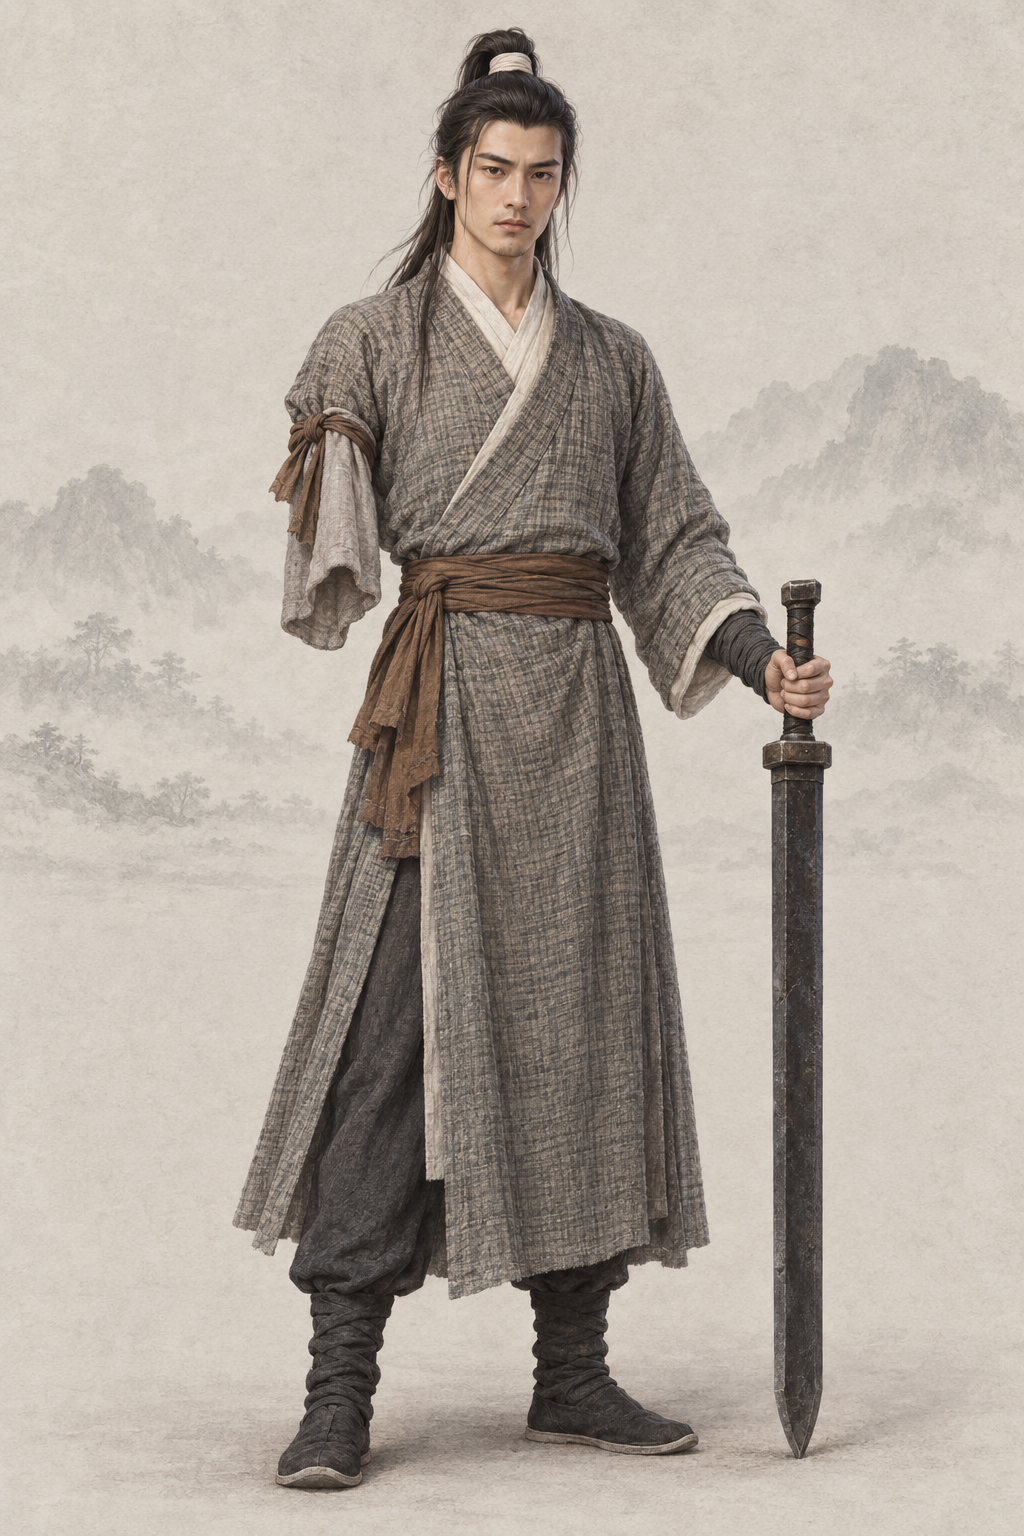
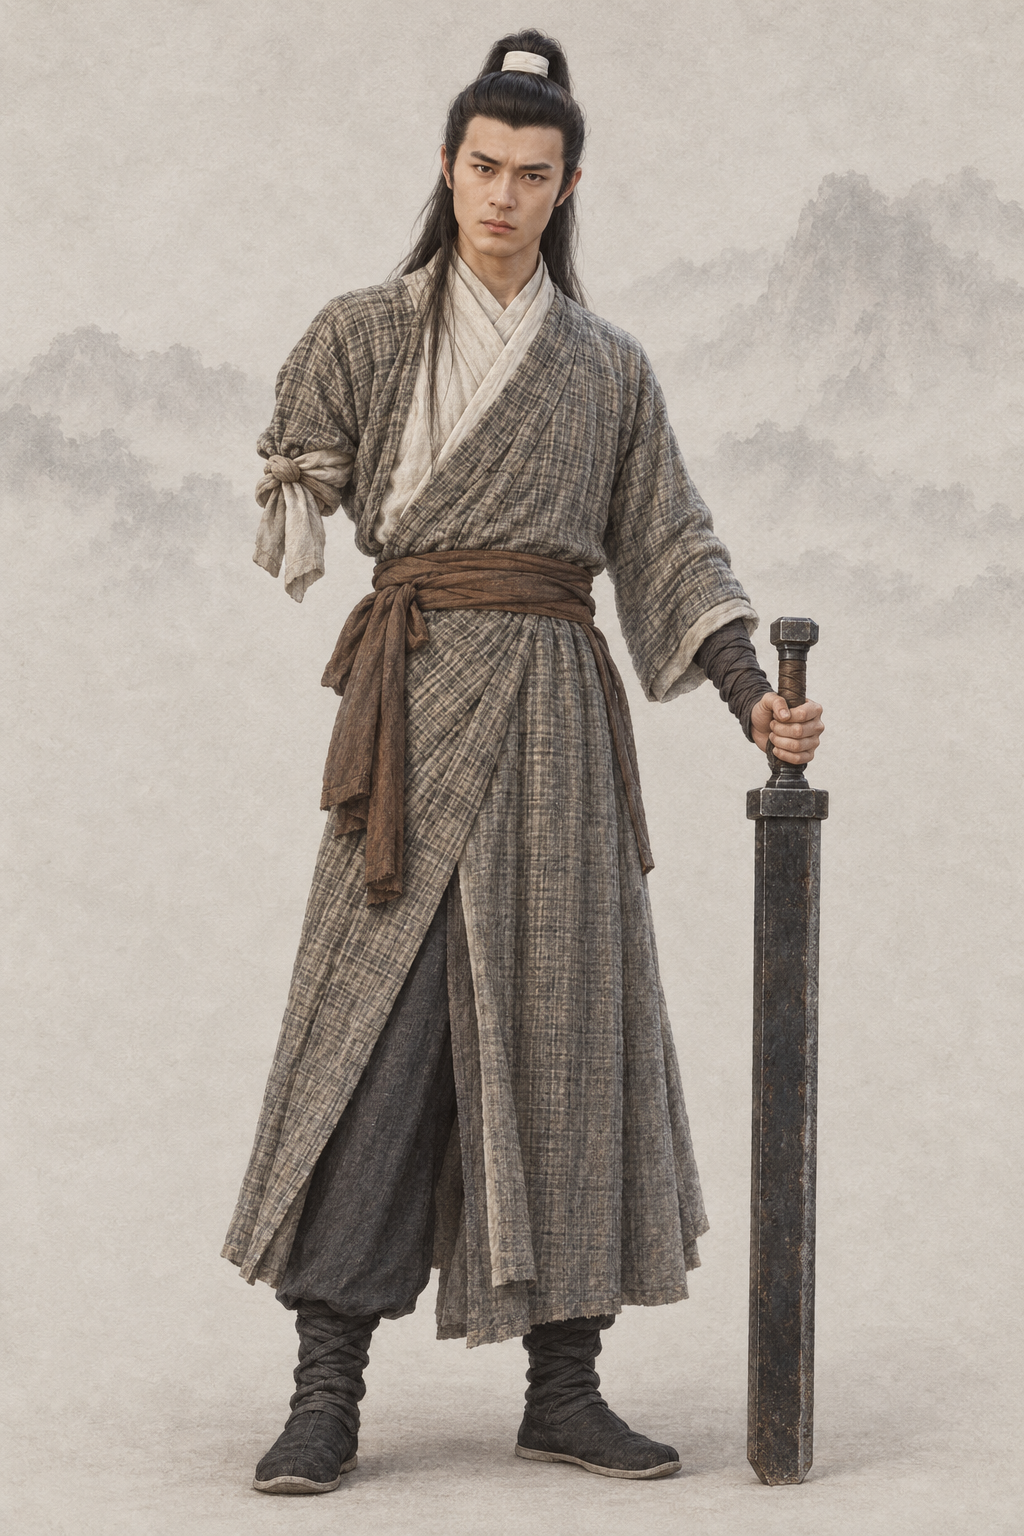
assets(character): 杨过 base 换作者选定的第 2 轮 A 版（AR-44 / AR-49）
作者 13:24「杨过再像古天乐版本一些」，第 2 轮在剧照之外加剧照脸部特写，脸向 1995 版靠拢，仍按项目画风重画；作者 13:47 选 A。独臂（右臂）、左手玄铁剑、格纹布袍保留。第 1 轮图备份在 codex_w17/replaced/，提示词写回 npc_yangguo.md，第 1 轮段留作历史。

diff --git a/assets/default/prompts/characters/ch03-shendiao/npc_yangguo.md b/assets/default/prompts/characters/ch03-shendiao/npc_yangguo.md
@@ -14,6 +14,9 @@ references:
 - path: .agents/coord/imagegen-reference/identity-20261001/yangguo_1995_caption_verified.jpg
   use: 身份参考：1995 TVB《神雕侠侣》 剧照（作者 10-03 指定版本）；只借造型、气质与五官神韵，按项目画风重画，不照搬照片
   sha256: 0445ec2ad9210b8eef26797e9d3855551f26407008ee6819c41885ca17d5f53e
+- path: .agents/coord/_handoff/gem/codex_w17/staging/stillface__yangguo.jpg
+  use: 剧照脸部特写：由上面这张剧照裁出放大（512×512），只为看清五官；同样只借神韵，按项目画风重画
+  sha256: ae9389d569013ddd3ff2a776e3f008df33ddc7c0e6aec72b0f95aeae31fdfb30
 - path: assets/default/baseline/character/male/ref_npc_linghuchong__ch05_base01.png
   use: 画风基线：项目同性别基线立绘，只取画风、用色、光线、质感和背景处理，不取长相（上传缩小版 JPEG）
   sha256: 3523d4d935ad8bb13db359ce72e73bc211ebdb3af5cb2a9806db346dca6df202
@@ -23,6 +26,7 @@ references:
 redo_reason: "作者 10-03 AR-44：参考1995 TVB《神雕侠侣》造型重画 base，不要和照片一样"
 reference_upload:
 - /Users/bytedance/Projects/jinyongqunxia/.agents/wt/_prod/.agents/coord/_handoff/gem/codex_w17/staging/still__por_npc_yangguo__ch03_youth_onearm_base__1.jpg
+- /Users/bytedance/Projects/jinyongqunxia/.agents/wt/_prod/.agents/coord/_handoff/gem/codex_w17/staging/stillface__yangguo.jpg
 - /Users/bytedance/Projects/jinyongqunxia/.agents/wt/_prod/.agents/coord/_handoff/gem/baseline_small/male__ref_npc_linghuchong__ch05_base01.jpg
 - /Users/bytedance/Projects/jinyongqunxia/.agents/wt/_prod/.agents/coord/_handoff/gem/baseline_small/male__ref_npc_xiaofeng__ch01_base01.jpg
 codex_prompt_rev: 2026-10-03
@@ -35,6 +39,26 @@ classic_ref:
 # 杨过 · 人物写实修正
 
 ## Gemini 提示词
+
+> 2026-10-03 AR-44 新 base（10 号出图员，codex exec · image_gen）：作者要求参考1995 TVB《神雕侠侣》造型、按项目画风重画、不要和照片一样；上传顺序：1 张剧照、1 张剧照脸部特写，最后两张为同性别画风基线（缩小版 JPEG）。上一版保留在下一节作历史。AR-44 / AR-49 第 2 轮，作者选 A。
+
+```text
+生成一张 2:3 竖幅全身人物立绘：单人、单一视角、完整全身——头顶、双手、双脚和手中器物的两端都在画面内，四周留出自然空白；人物站姿自然，身体基本朝向正面，头部端正（不歪头、不仰不俯），镜头平视。
+【参考图】第 1 张是该角色经典影视造型的剧照，第 2 张是同一张剧照的脸部特写。人物的脸要明显向剧照靠拢——脸型、眉形与眉眼间距、眼型与眼神、鼻梁、嘴型和神情都要像剧照里的这个角色，让看过这一版的观众一眼认出；发型、服饰、配色和气质也借鉴剧照。但必须重新绘制成项目的手绘插画画风：不要照片质感，不要照搬剧照的构图、光影、背景和姿势，不要做成照片修图或照片贴脸。最后两张是本项目画风基线：画风、用色、光线、质感和暖浅灰纸底加淡水墨背景以它们为准，但不取基线人物的长相。
+【画风】写实手绘古风人物插画，与本项目写实武侠角色立绘同一画风，像功力深厚的画师用细腻笔触画出的真实人物。手绘插画质感，不是 CG 渲染：不要过度光滑的皮肤、完美对称的五官、塑料高光、过度锐利的发丝；保留自然的笔触和细微不完美。皮肤有真实质感——细小毛孔、细纹、晒痕和自然的左右不对称，不磨皮、不油亮；头发是一缕缕自然的发丝和少量碎发；布料看得出经纬纹理、厚薄和自然垂坠的褶皱，带穿用过的轻微旧化，但完整不破烂；整体设色低饱和、沉稳；柔和的自然光从左上方照来，明暗过渡自然，不打舞台光、轮廓光或美颜柔光。不是照片，不是三维渲染，不是动漫或游戏 CG，也不是油画（没有厚涂笔触和画布纹理）。
+【背景】不透明的暖浅灰色纸底，只在远处有极淡的水墨远山和薄雾，大面积留白；人物与背景明暗分明、轮廓边缘干净完整（后续要自动抠图），水墨和纸纹只在背景里，不侵入人物和衣服；脚下只有很淡的一点接触阴影。
+【人物】杨过，《神雕侠侣》南宋的主角，杨康之子、小龙女之徒；被郭芙斩断右臂、得独孤求败玄铁重剑之后，十六年分离之前。孤傲不羁、深情重义。
+【年龄与体态】约二十四五岁的成年男子，身材高挑、肩背挺拔，精悍结实的练剑身形，不是少年。
+【面容（要像剧照里的杨过）】偏长的脸型，额头宽、下颌线清楚并向下收窄，两颊略瘦；浓黑的剑眉又长又平、眉尾上挑、压得较低，眉眼间距近；眼睛细长、眼尾微微上扬，眼神凌厉倔强、带几分邪气与不羁；鼻梁高挺、鼻头窄；嘴唇偏薄、唇线清楚、嘴角紧抿；神情冷峻孤傲。英俊、有棱角的青年侠客。
+【发式】额前头发向后梳、发际线清楚，头顶高高束成马尾髻、用一条米白布带扎紧，长发从髻上垂到背后，两侧鬓角各垂下一缕长发。
+【服饰】外穿灰褐色粗麻布交领外袍（织纹带细密的暗格纹，旧而整洁），内衬米白交领内衫，腰间一条褐色宽布腰带，深色长裤、布靴；整体带一点浪迹江湖的风尘与不羁。
+【独臂与兵器】原著断的是右臂：右臂从上臂中段以下没有了——右边衣袖从肩下就是空的，扁平、软塌塌地在上臂处打一个结垂下，袖子里明显没有手臂、没有手（独臂必须一眼看清）；只用左手握住一柄乌黑厚重、宽钝无锋、毫无装饰的玄铁重剑，剑尖朝下拄在身体左侧的地上，剑身完整入画。不能画成左臂缺失。
+【姿态】站姿挺拔，身体基本朝向正面、略微侧身，头部端正，目光平视前方。
+【不要】画面里不要任何文字、题款、印章、签名、水印、边框、分格或多视图；不要第二个人；不要幼态（童颜、娃娃脸、婴儿肥、儿童或少年身材、大头小身）；不要塑料感皮肤、磨皮美颜、网红脸（尖下巴大眼高鼻的模板脸）、过度对称、浓妆、偶像式打光、蜡像感；不要照片质感，不要像剧照照片、照片修图或拼贴，不要照搬剧照的背景、光影、构图和姿势；不要三维渲染或动漫大眼；不要歪头、斜镜头；不要多指、缺指（设定的伤残除外）、手与器物粘连或悬空；衣襟必须右衽（穿着者的左襟压在右襟上），不要左衽（设定为少数民族服制的除外），不要水平镜像；不要现代物品、发光特效、法阵或能量光。不要画成双臂齐全，不要出现右手或右前臂，不要两只手握剑；不要神雕或其他动物；不要剧照里举剑过头的姿势。
+【画风基线】随提示词上传的参考图里，最后两张是本项目的立绘画风基线：只参考它们的画风、用色、光线、质感和暖浅灰纸底加淡水墨的背景处理，整体画风必须与它们一致——精细写实的数字手绘插画，不是油画，不要厚涂笔触和画布纹理。基线图只取画风，不取长相：不要照搬基线图里人物的长相、年龄、发型、服饰和姿势。
+```
+
+## AR-44 第 1 轮 Gemini 提示词（作者 13:24 要求更像 1995 版，历史，不再用于出图）
 
 > 2026-10-03 AR-44 新 base（10 号出图员，codex exec · image_gen）：作者要求参考1995 TVB《神雕侠侣》造型、按项目画风重画、不要和照片一样；上传顺序：剧照 1 张，最后两张为同性别画风基线（缩小版 JPEG）。上一版保留在下一节作历史。
 
